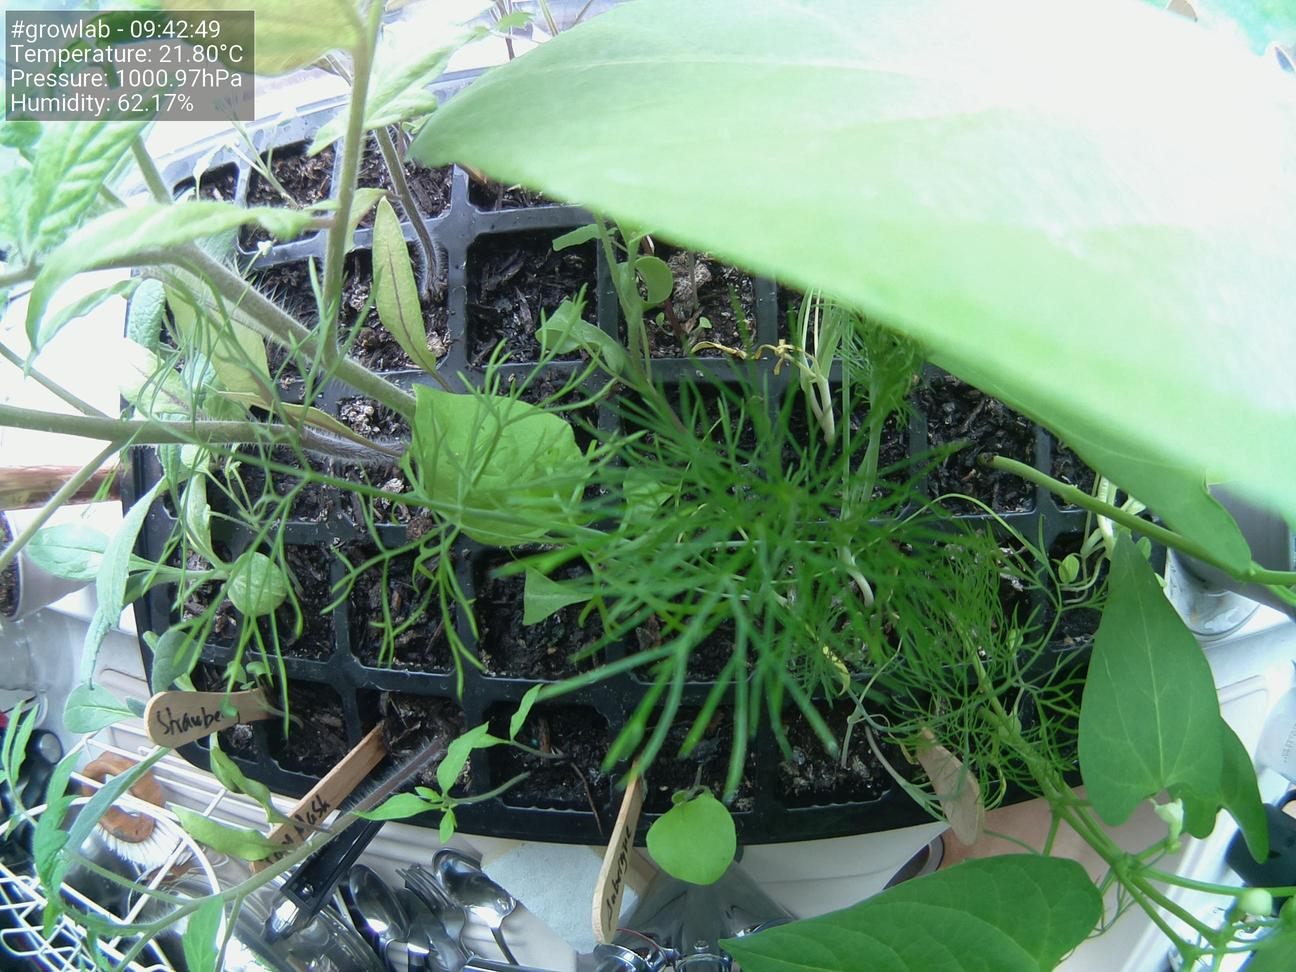
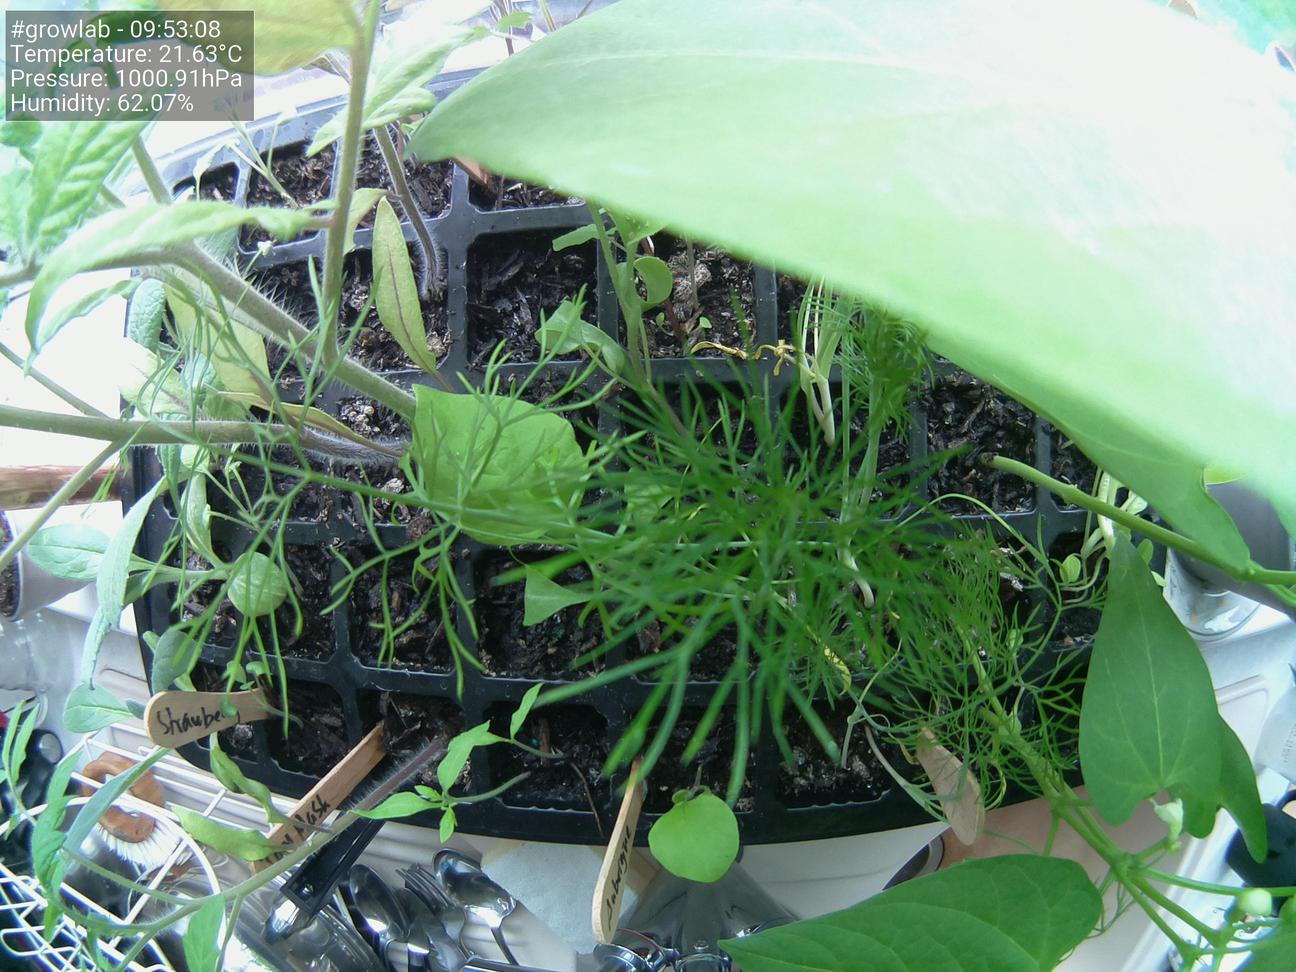
Update images at Sat 15 May 09:53:20 BST 2021

diff --git a/docs/index.html b/docs/index.html
@@ -38,19 +38,19 @@
                     <tbody>
                         <tr>
                             <td>Time</td>
-                            <td>09:42:49</td>
+                            <td>09:53:08</td>
                         </tr>
                         <tr>
                             <td>Temperature</td>
-                            <td>21.80°C</td>
+                            <td>21.63°C</td>
                         </tr>
                         <tr>
                             <td>Humidity</td>
-                            <td>62.17%</td>
+                            <td>62.07%</td>
                         </tr>
                         <tr>
                             <td>Pressure</td>
-                            <td>1000.97hPa</td>
+                            <td>1000.91hPa</td>
                         </tr>
                     </tbody>
                 </table>
@@ -58,7 +58,7 @@
 
                 <h5>Latest image</h5>
 		<div style="width: 85%;">
-	                <img class="figure-img img-fluid rounded" src="./preview.jpg?uid=1621068180.5137987">
+	                <img class="figure-img img-fluid rounded" src="./preview.jpg?uid=1621068799.7529013">
 		</div>
             </div>
         </div>
